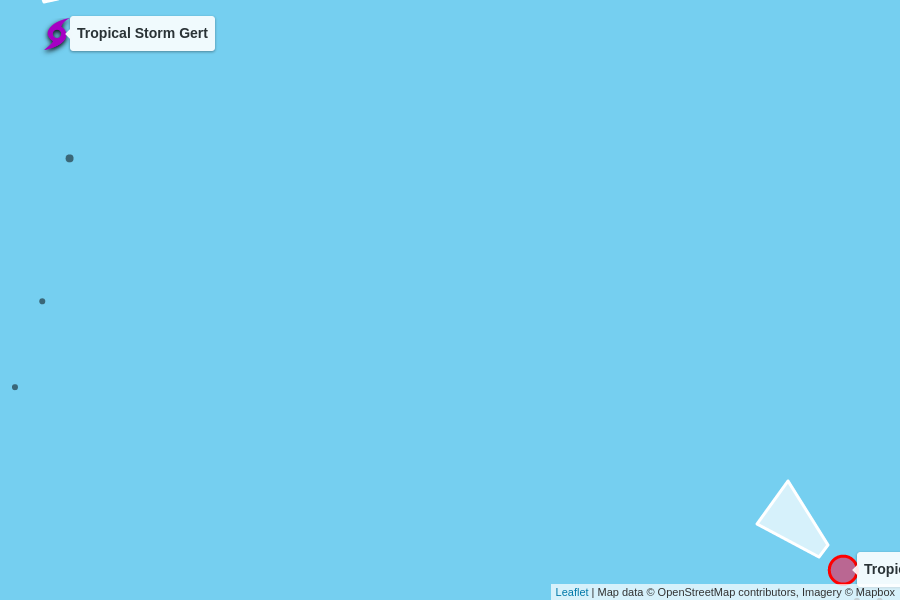
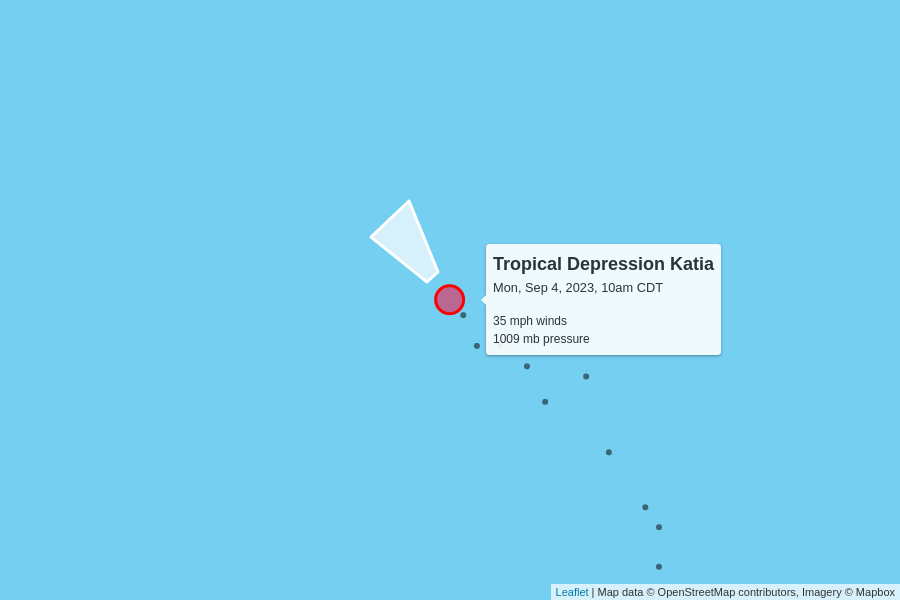
automatic update

diff --git a/docs/index.html b/docs/index.html
@@ -96,40 +96,18 @@
     </p>
 
     
-    <h2>2 active storms</h2>
+    <h2>1 active storm</h2>
     <img src="active.png">
 
     <table>
       <tr>
-        <td colspan="6" class="storm category-0" >
-          <h2>
-            Tropical Storm Gert
-            <p class="updated">last updated <span data-time>2023-09-04T09:00:00.000Z</span></p>
+        <td colspan="6" class="storm category-0" style="cursor:pointer;" onClick="toggle('AL062023')">
+          <h2>🏁 Gert
           </h2>
         </td>
       </tr>
       
-      <tr>
-        <th class="spacer"></th>
-        <th>wind speed</th>
-        <th>central pressure</th>
-        <th>movement</th>
-        <th>data (CSV)</th>
-        <th>National Hurricane Center</th>
-      </tr>
-      <tr>
-        <td class="spacer"></td>
-        <td>50 mph<br>0 mph since last update</td>
-        <td>1000 mb<br>0 mb since last update</td>
-        <td>
-          24 mph to the north
-          <br/>
-          <span style="display: inline-block; font-size: 1.5em; transform: rotate(350deg);">↑</span>
-        </td>
-        <td><a href="https://raw.githubusercontent.com/mgwalker/atlantic-hurricanes/main/data/csv/AL062023.csv">AL062023.csv</a></td>
-        <td><a href="https://www.nhc.noaa.gov/archive/2023/GERT.shtml?">NHC advisories</a></td>
-      </tr>
-      <tr id="storm_AL062023" >
+      <tr id="storm_AL062023" style="display:none;">
         <td class="spacer">
         <td colspan="5">
           <figure>
@@ -148,7 +126,7 @@
         <td colspan="6" class="storm category-0" >
           <h2>
             Tropical Depression Katia
-            <p class="updated">last updated <span data-time>2023-09-04T09:00:00.000Z</span></p>
+            <p class="updated">last updated <span data-time>2023-09-04T15:00:00.000Z</span></p>
           </h2>
         </td>
       </tr>
@@ -164,11 +142,11 @@
       <tr>
         <td class="spacer"></td>
         <td>35 mph<br>0 mph since last update</td>
-        <td>1008 mb<br>+1 mb since last update</td>
+        <td>1009 mb<br>+1 mb since last update</td>
         <td>
-          7 mph to the northwest
+          5 mph to the northwest
           <br/>
-          <span style="display: inline-block; font-size: 1.5em; transform: rotate(310deg);">↑</span>
+          <span style="display: inline-block; font-size: 1.5em; transform: rotate(320deg);">↑</span>
         </td>
         <td><a href="https://raw.githubusercontent.com/mgwalker/atlantic-hurricanes/main/data/csv/AL122023.csv">AL122023.csv</a></td>
         <td><a href="https://www.nhc.noaa.gov/archive/2023/KATIA.shtml?">NHC advisories</a></td>
